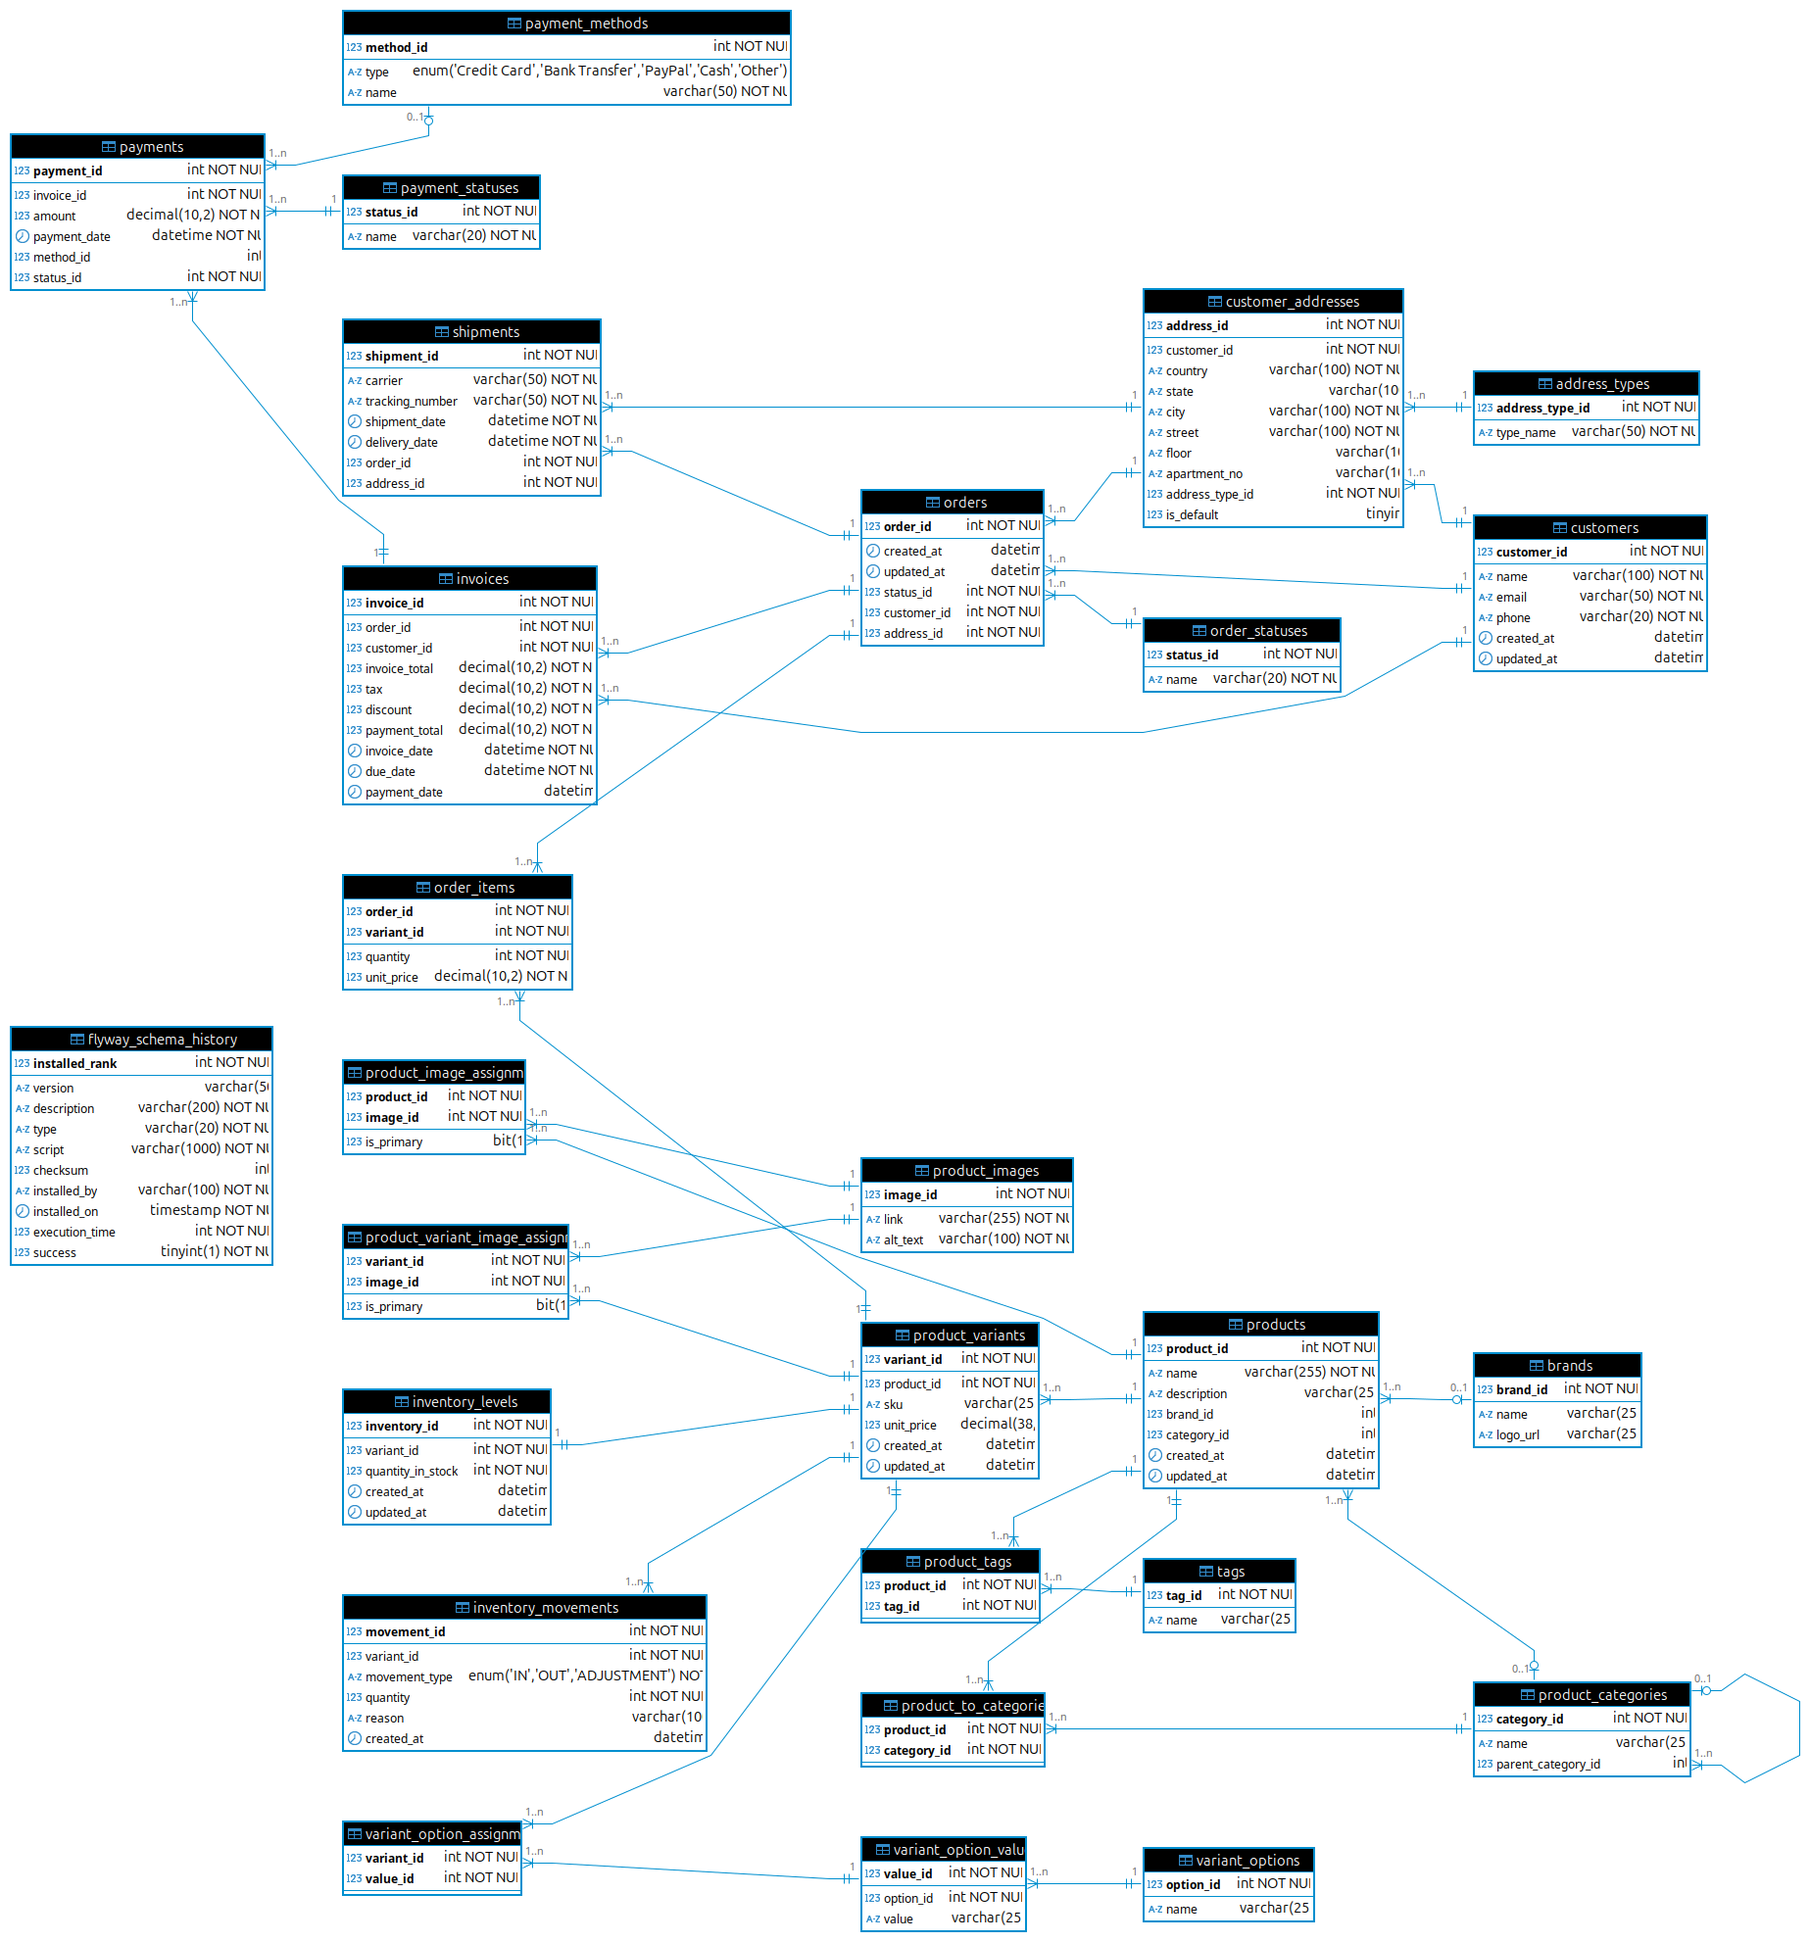
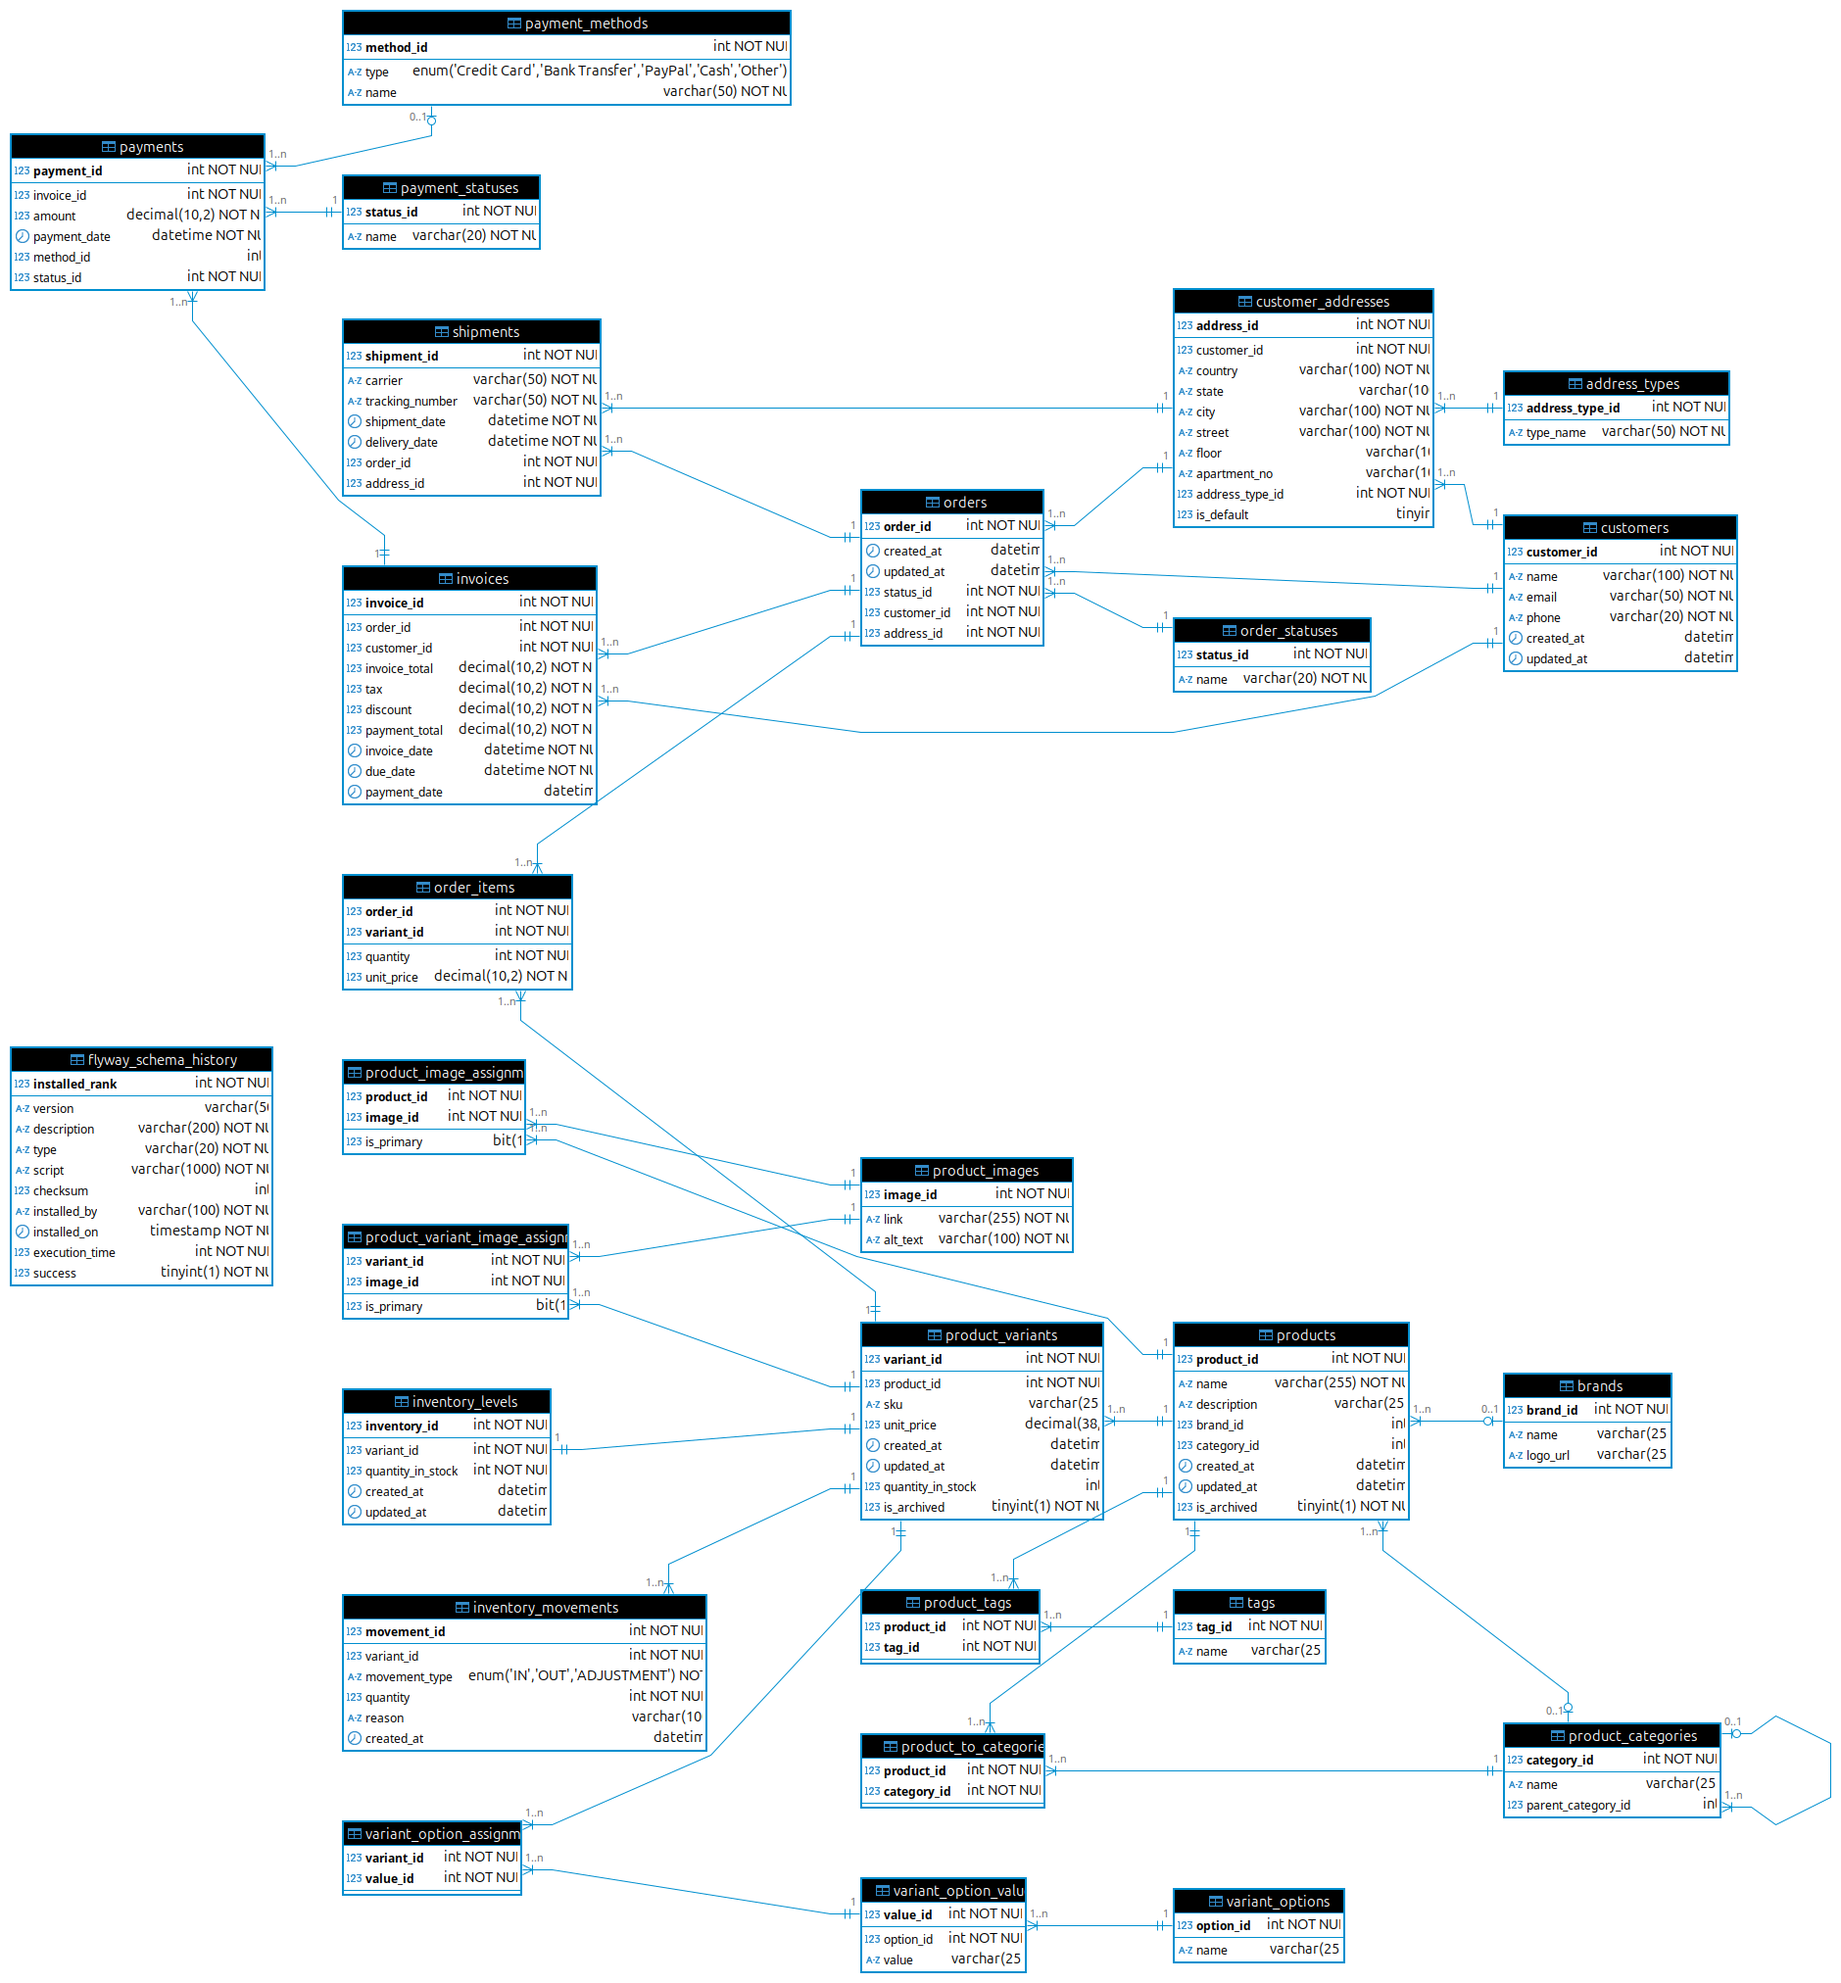
Add is_archived field

diff --git a/documents/RnD_Notes.md b/documents/RnD_Notes.md
@@ -37,6 +37,7 @@ In this model a product is just a conceptual entity. It doesn't have `price` and
 - `product_id`: `PK`
 - `name`
 - `description`
+- `is_archived`
 - `category_id`
 - `brand`
 - Additional to the mentioned fields in the requirements, let's add `created_at` and `updated_at` fields
@@ -116,6 +117,7 @@ Each row is a unique combination of options for a product. For example T-shirt, 
 - `product_id`: `FK`
 - `sku`: `UQ`
 - `unit_price`
+- `is_archived`
 - ~~quantity_in_stock~~ - this will be moved to inventory
 
 ### `variant_options` table
